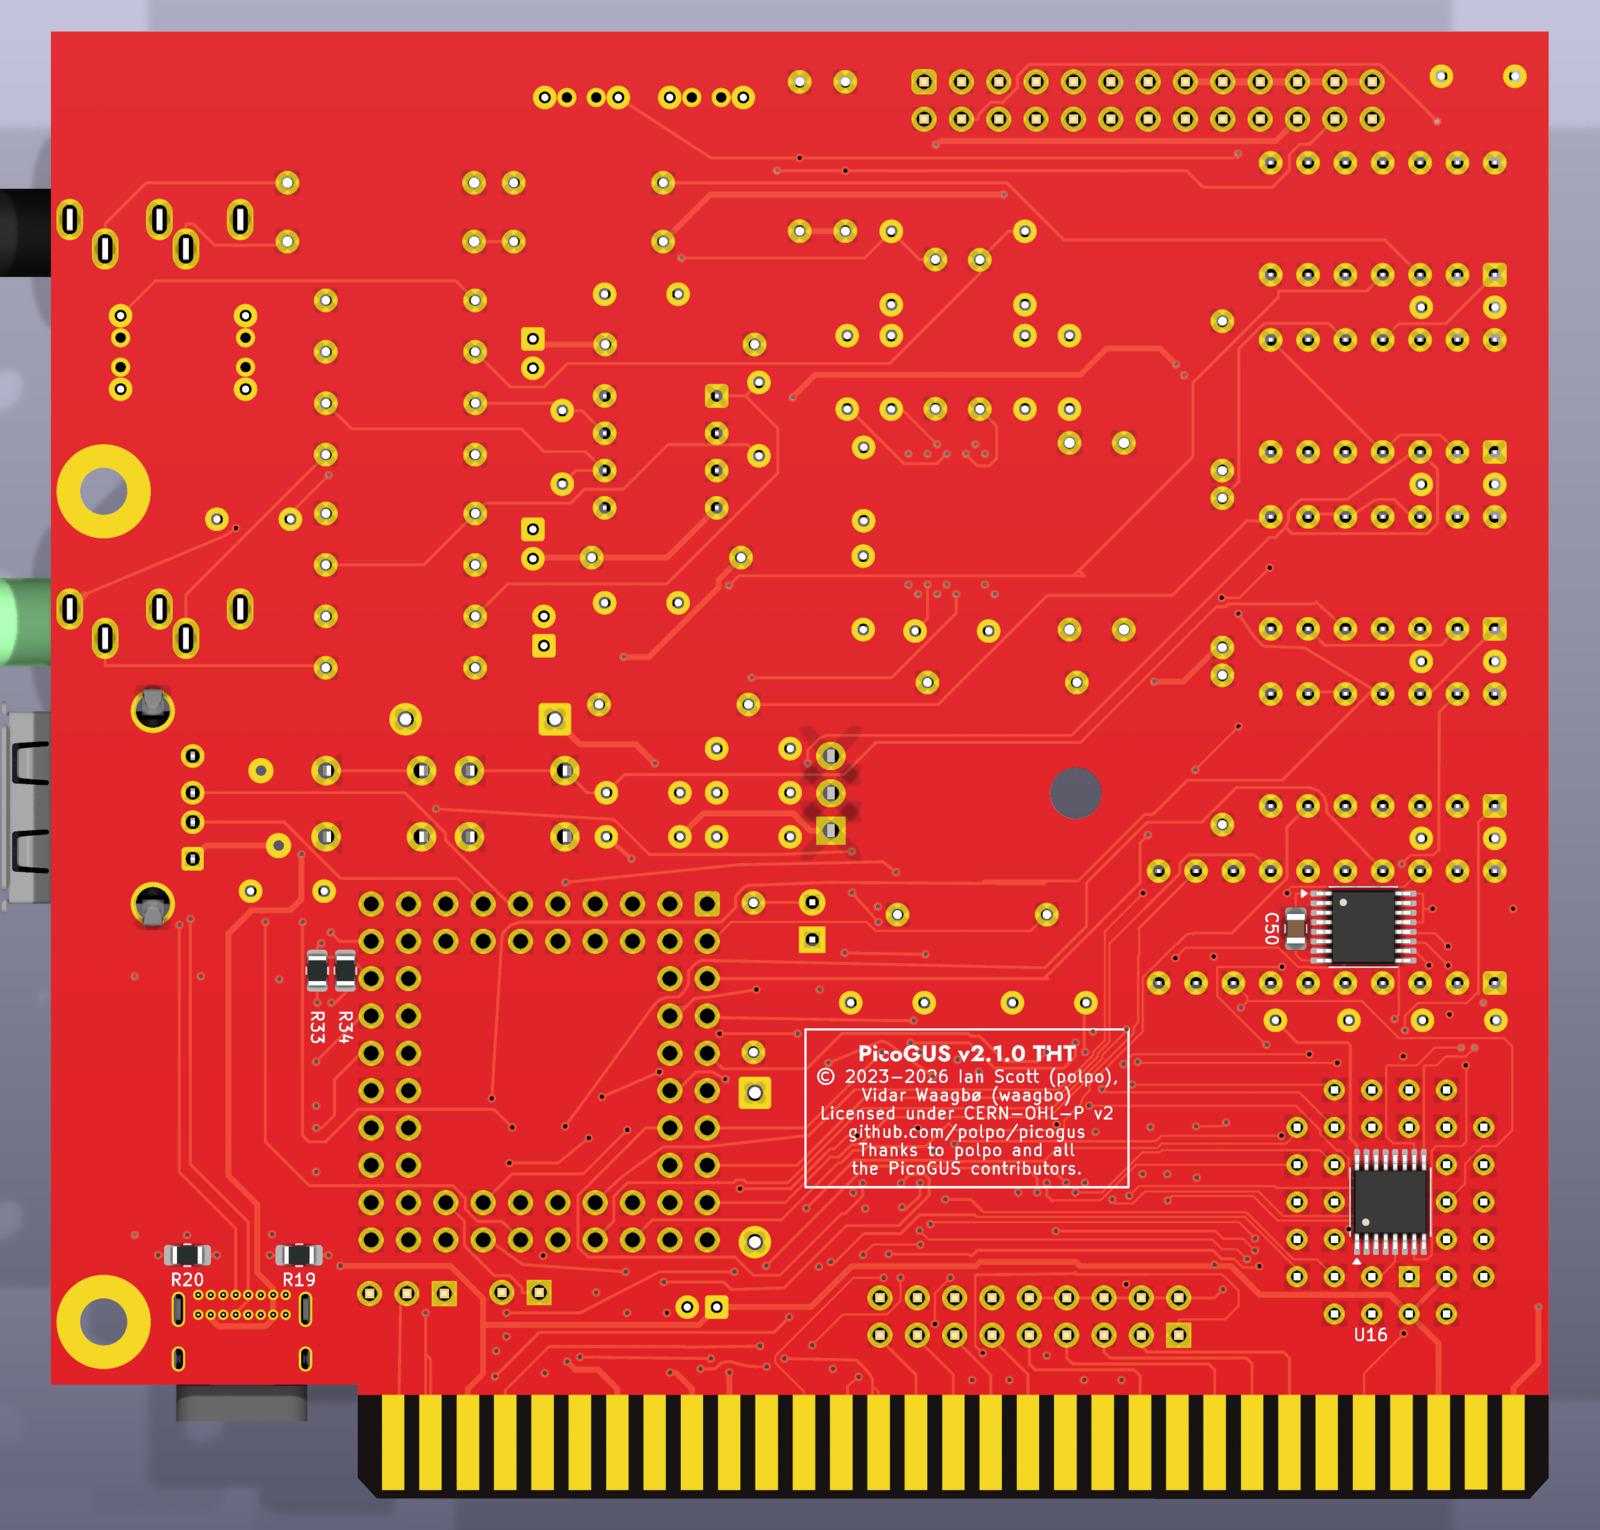
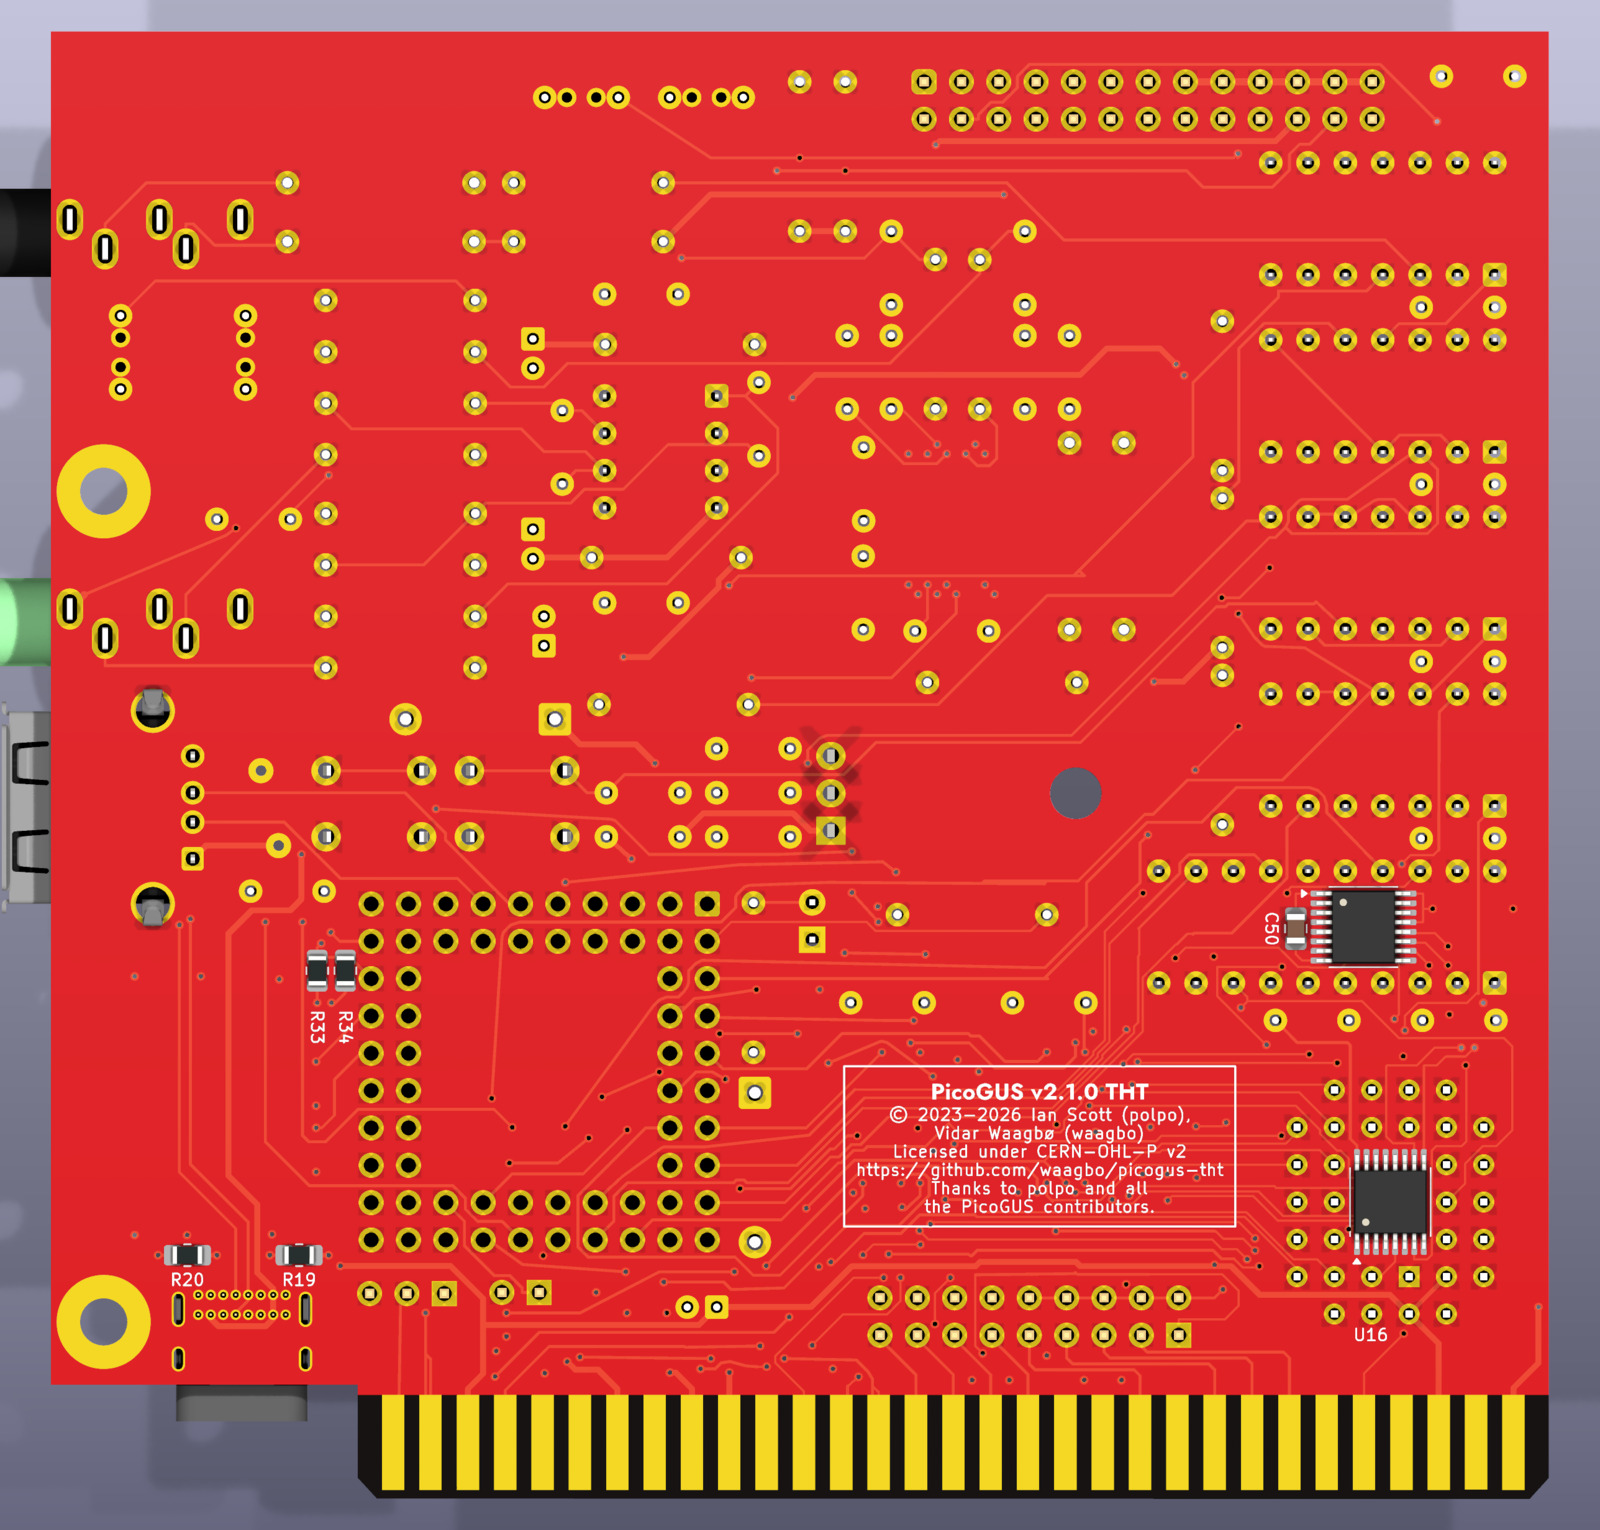
hw-tht-v2.1: back-side link to github.com/waagbo/picogus-tht, block centred
The attribution block on the back now links to
https://github.com/waagbo/picogus-tht (was github.com/polpo/picogus). The
frame grew to 26.6 mm for the longer line, and the block moved 4.95 mm
towards the flash socket and 2.6 mm down, to sit between the through-hole
pads round it (C2/C3 above, J3 below, D3/R13 and the socket's pins to the
sides: 3.5 to 5.0 mm from each). It is 0.8 mm off the exact middle, where
9 via holes fall in letters instead of 17 (13 before the move).

Silkscreen only: DRC with schematic parity and the silkscreen checks are
unchanged. The back render is new; the front renders do not change.

Claude-Session: https://claude.ai/code/session_013W5uqvghZgJXEB5tgmrp98

Changed region(s): [[0.5, 0.6758, 0.7812, 0.7987]]

diff --git a/hw-tht-v2.1/README.md b/hw-tht-v2.1/README.md
@@ -586,6 +586,11 @@ the bracket edge as on v1.3.2, J6 over the bottom edge).
   `D000` and `D800` went with the jumpers on 2026-11-19); `R36` stands on its body, as U9 and C20 leave no room
   beside it. With KiCad's silkscreen checks switched on (they are off in the project) the boot ROM adds no
   overlap.
+* **Attribution block on the back** (name, copyright, licence, link and thanks, in a frame): its link is
+  `https://github.com/waagbo/picogus-tht` (2026-11-24; before that upstream's `github.com/polpo/picogus`). The frame
+  is 26.6 × 10.9 mm and sits between the through-hole pads round it: C2 and C3 above, J3 below, D3 and R13 on one
+  side and the flash socket's pins on the other, 3.5 to 5.0 mm from each. It is 0.8 mm off the exact middle, where
+  9 via holes fall in letters instead of 17 (the vias are tented, but their holes take the ink).
 * **Groups, as on v1.3.2**, so a block moves as one: `74AHCT126 (U6)`, `74AHC00 (U4)`, `74AHC00 (U5)`,
   `74AHC14 (U3)` (with the column resistors), `74AHC244 (U7)`, `ISA bus switches (U1, U2)`,
   `Waveblaster header (J8)`, `DAC (U10)`, `Mixer + line out (U11, J9)`, `WT volume (U13)`, `MIDI out (J7)`,
